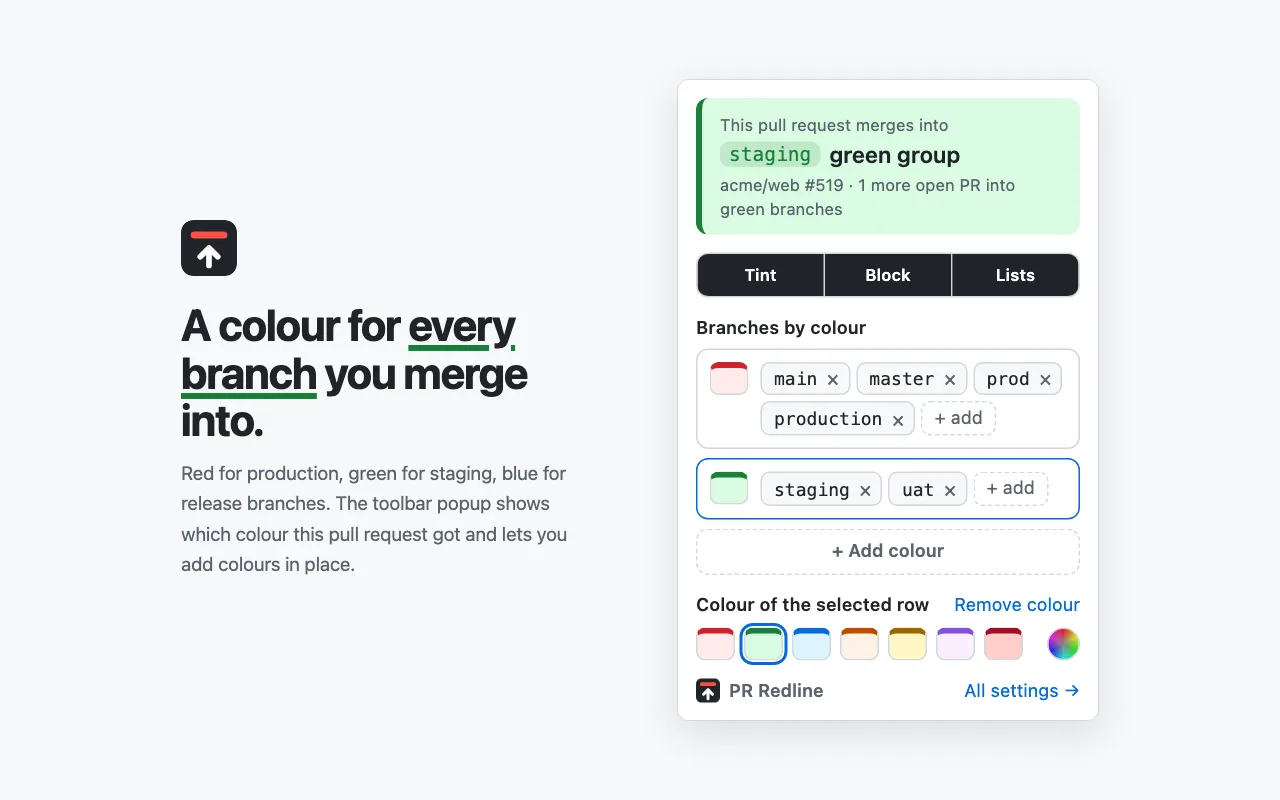
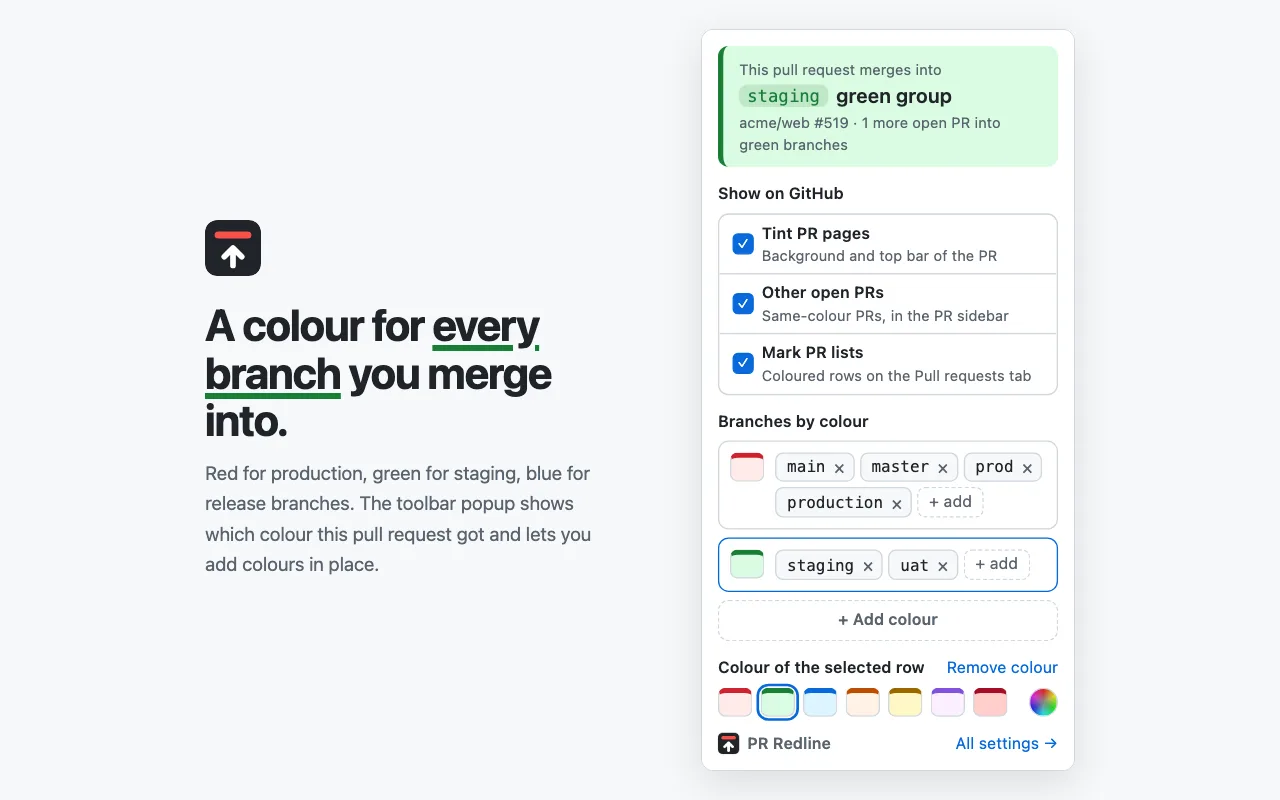
fix(popup): say what each toggle does and recognise the PR list page
"Tint / Block / Lists" did not tell users what they switch, and the popup
said "Not a pull request page" both on a repo's Pull requests tab and on
tabs it could not reach (opened before an install or update), so it looked
broken on pages where the extension was working.

Changed region(s): [[0.5312, 0.0312, 0.8438, 0.9688], [0.125, 0.375, 0.4688, 0.7188], [0.125, 0.25, 0.2188, 0.3438]]

diff --git a/popup.html b/popup.html
@@ -39,11 +39,21 @@
       .status .v code { font-size: 13px; padding: 1px 6px; color: var(--bar-text); background: color-mix(in srgb, var(--bar) 14%, transparent); overflow-wrap: anywhere; }
       .status.calm .v code { color: var(--fg); background: color-mix(in srgb, var(--muted) 16%, transparent); }
 
-      .seg { display: flex; margin: 0 12px; border: 1px solid var(--border); border-radius: 8px; overflow: hidden; }
-      .seg button { flex: 1; padding: 6px 0; font-size: 11px; cursor: pointer; background: none; border: 0; border-right: 1px solid var(--border); }
-      .seg button:last-child { border-right: 0; }
-      .seg button[aria-pressed='true'] { background: var(--fg); color: var(--canvas); font-weight: 600; }
-      .seg button:focus-visible { outline-offset: -3px; }
+      .switches { display: grid; margin: 0 12px; border: 1px solid var(--border); border-radius: 8px; overflow: hidden; }
+      .switches button {
+        display: grid; grid-template-columns: 14px 1fr; column-gap: 8px; align-items: center; text-align: left;
+        padding: 6px 10px; cursor: pointer; background: none; border: 0; border-bottom: 1px solid var(--border);
+      }
+      .switches button:last-child { border-bottom: 0; }
+      .switches button:hover { background: var(--subtle); }
+      .switches button::before {
+        content: '✓'; grid-row: span 2; width: 14px; height: 14px; border: 1px solid var(--muted); border-radius: 4px;
+        font-size: 10px; line-height: 13px; text-align: center; color: transparent;
+      }
+      .switches button[aria-pressed='true']::before { background: var(--accent); border-color: var(--accent); color: #fff; }
+      .switches b { font-weight: 600; }
+      .switches small { font-size: 11px; color: var(--muted); }
+      .switches button:focus-visible { outline-offset: -3px; }
 
       .lbl { padding: 12px 12px 6px; font-weight: 600; display: flex; align-items: center; gap: 8px; }
 
@@ -113,10 +123,11 @@
       <div class="v" style="font-size: 13px">Checking this tab…</div>
     </section>
 
-    <div class="seg" role="group" aria-label="Show on GitHub">
-      <button type="button" data-setting="tintEnabled" title="Tint pages of PRs into your branches">Tint</button>
-      <button type="button" data-setting="showBlock" title="List other open PRs into the same colour in the PR sidebar">Block</button>
-      <button type="button" data-setting="highlightList" title="Highlight PRs into your branches in pull request lists">Lists</button>
+    <div class="lbl" id="show-label" style="padding-top: 0">Show on GitHub</div>
+    <div class="switches" role="group" aria-labelledby="show-label">
+      <button type="button" data-setting="tintEnabled"><b>Tint PR pages</b><small>Background and top bar of the PR</small></button>
+      <button type="button" data-setting="showBlock"><b>Other open PRs</b><small>Same-colour PRs, in the PR sidebar</small></button>
+      <button type="button" data-setting="highlightList"><b>Mark PR lists</b><small>Coloured rows on the Pull requests tab</small></button>
     </div>
 
     <div class="lbl" id="groups-label">Branches by colour</div>

diff --git a/popup.js b/popup.js
@@ -86,8 +86,20 @@ async function refreshStatus() {
 function renderStatus(state) {
   const rows = [];
   let calm = true;
-  if (!state || state.kind === 'other') {
-    rows.push(el('div', 'v', 'Not a pull request page'), el('div', 'k', 'Open a PR on github.com to see its base'));
+  if (!state) {
+    rows.push(
+      el('div', 'v', 'Can’t read this tab'),
+      el('div', 'k', 'On GitHub? Reload the tab. Tabs opened before PR Redline was installed or updated can’t be read.'),
+    );
+    rows[0].style.fontSize = '13px';
+  } else if (state.kind === 'other') {
+    rows.push(el('div', 'v', 'Not a pull request page'), el('div', 'k', 'Open a pull request, or a repo’s Pull requests tab'));
+    rows[0].style.fontSize = '13px';
+  } else if (state.kind === 'list') {
+    const marked = settings.highlightList
+      ? `${state.marked} PR${state.marked === 1 ? '' : 's'} on this page marked by colour`
+      : 'Mark PR lists is off';
+    rows.push(el('div', 'v', 'Pull request list'), el('div', 'k', `${state.repo} · ${marked}`));
     rows[0].style.fontSize = '13px';
   } else if (!state.base) {
     rows.push(el('div', 'v', 'Reading the base branch…'), el('div', 'k', state.repo));
@@ -383,22 +395,23 @@ custom.addEventListener('click', () => {
 // --- Wiring ---
 
 function apply(next) {
-  const groupsChanged = JSON.stringify(next.groups) !== JSON.stringify(settings.groups);
+  const statusChanged =
+    JSON.stringify(next.groups) !== JSON.stringify(settings.groups) || next.highlightList !== settings.highlightList;
   settings = next;
   selected = Math.min(selected, settings.groups.length - 1);
   for (const button of toggles) button.setAttribute('aria-pressed', String(settings[button.dataset.setting]));
   renderGroups();
   // While the wheel is moving, an older save echoing back must not pull it back.
-  if (dragging || saveTimer !== null) return groupsChanged;
+  if (dragging || saveTimer !== null) return statusChanged;
   const group = settings.groups[selected];
   // Keep the knob where the user put it unless the colours came from elsewhere.
   if (comboFor(wheelPos).bar !== group.bar) wheelPos = wheelFromBar(group.bar);
   placeKnob();
   showColours(group);
-  return groupsChanged;
+  return statusChanged;
 }
 
-// The status card only depends on the colour groups.
+// The status card only depends on the colour groups and the list toggle.
 function update(next) {
   if (apply(next)) refreshStatus();
 }

diff --git a/content.js b/content.js
@@ -1,5 +1,6 @@
 const CLASS = 'gh-redline';
 const DEAD_CLASS = 'gh-redline-dead';
+const PULL_LIST_PATH = /^\/([^/]+\/[^/]+)\/pulls\/?$/;
 
 let settings = { ...DEFAULT_SETTINGS };
 
@@ -64,7 +65,7 @@ function apply() {
     removeProtectedPrList();
   }
 
-  const pullList = location.pathname.match(/^\/([^/]+\/[^/]+)\/pulls\/?$/);
+  const pullList = location.pathname.match(PULL_LIST_PATH);
   if (pullList && settings.highlightList) {
     highlightPullList({ repo: pullList[1], groups: settings.groups, onReady: schedule });
   } else {
@@ -80,6 +81,8 @@ function pageState() {
   if (pull) return { kind: 'pull', repo: pull[1], number: Number(pull[2]), base: detectBase(), done: isPullDone() };
   const compare = path.match(/^\/([^/]+\/[^/]+)\/compare\//);
   if (compare) return { kind: 'compare', repo: compare[1], base: detectBase() };
+  const list = path.match(PULL_LIST_PATH);
+  if (list) return { kind: 'list', repo: list[1], marked: document.querySelectorAll(`.${HIT_CLASS}`).length };
   return { kind: 'other' };
 }
 

diff --git a/CHANGELOG.md b/CHANGELOG.md
@@ -18,6 +18,12 @@
 
 ### Changed
 
+- Popup: the three on/off toggles now say what they do ("Tint PR pages",
+  "Other open PRs", "Mark PR lists"), each with a one-line description.
+- Popup: on a repo's Pull requests tab it says how many PRs on the page are
+  marked, instead of "Not a pull request page". When it can't reach the tab
+  (opened before the extension was installed or updated), it says to reload
+  the tab.
 - Settings created in 1.4 become the first colour group, so an upgrade changes
   nothing on screen. The first group is also written back to the 1.4 keys, so
   an older version on another synced browser keeps working.
